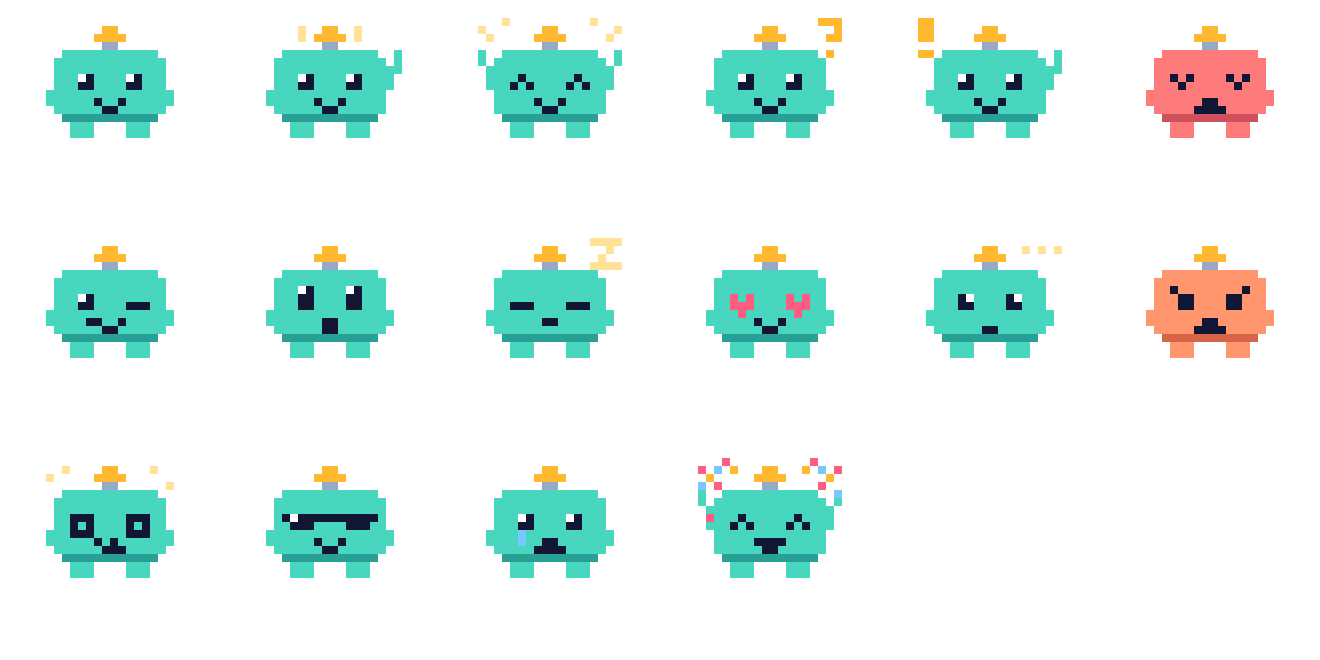
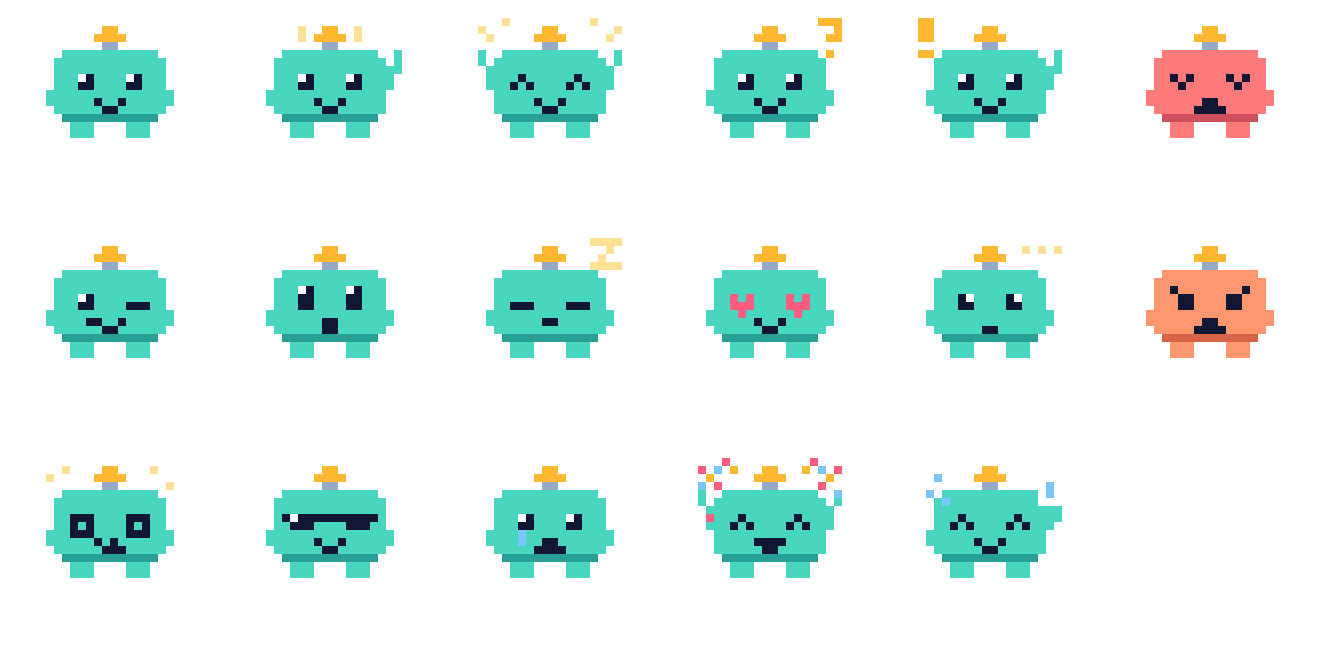
feat: Kiro (app + CLI) support; a sipping-water Pintu for the drink reminder; 1.2.30

Changed region(s): [[0.6833, 0.697, 0.8076, 0.8788]]

diff --git a/npm/python/pet.js b/npm/python/pet.js
@@ -48,7 +48,7 @@ function drawPet(pctx, mode, now, pet) {
   const eyesFor = (x, left) => {
     if (mode === "nap" || mode === "tired" || blinking) return [[x, 10], [x + 1, 10]];
     if (err) return left ? [[x, 9], [x + 1, 10], [x + 1, 9]] : [[x + 1, 9], [x, 10], [x, 9]];
-    if (pet.hover || mode === "done" || mode === "music" || mode === "party" || mode === "proud") return [[x, 10], [x + 1, 9], [x + 2, 10]];  // ^ ^
+    if (pet.hover || mode === "done" || mode === "drink" || mode === "music" || mode === "party" || mode === "proud") return [[x, 10], [x + 1, 9], [x + 2, 10]];  // ^ ^
     const e = [[x, 9], [x, 10], [x + 1, 10]]; px(x + 1, 9, PC.white);
     if (["approval", "question"].includes(mode)) e.push([x, 11]);
     if (mode === "working") { return [[x, 10], [x + 1, 10], [x, 9]]; }          // looking down at the keys
@@ -66,6 +66,12 @@ function drawPet(pctx, mode, now, pet) {
   if (has("coffee") || mode === "tired") {
     px(19, 11, PC.white, 2, 3); px(21, 12, PC.white);
     px(frame % 2 ? 20 : 19, 9, PC.steam); px(frame % 2 ? 19 : 20, 10, PC.steam);
+  }
+  if (mode === "drink") {                                                              // sipping a glass of water
+    const sip = frame % 4 === 3;
+    px(sip ? 17 : 19, sip ? 6 : 8, PC.white, 3, 1); px(sip ? 17 : 19, sip ? 7 : 9, PC.white); px(sip ? 19 : 21, sip ? 7 : 9, PC.white);
+    px(sip ? 18 : 20, sip ? 7 : 9, "#5ab8ff"); px(sip ? 17 : 19, sip ? 8 : 10, PC.white, 3, 1);
+    for (const [x, y] of [[2, 4], [1, 8], [3, 12]]) if ((frame + x) % 3) px(x, y + (frame % 2), "#5ab8ff");
   }
   if (mode === "music") { const n = frame % 2; px(17 - n, 3 - n, PC.yel); px(18 - n, 2 - n, PC.yel); px(18 - n, 1 - n, PC.yel); px(16 + n, 5, PC.cream); }
   if (mode === "nap") { const z = frame % 4; px(16, 5, PC.cream); if (z > 0) { px(17, 4, PC.cream, 2); px(18, 3, PC.cream); } if (z > 1) { px(18, 1, PC.cream, 3); px(19, 2, PC.cream); px(18, 3, PC.cream, 3); } }

diff --git a/npm/python/toast.html b/npm/python/toast.html
@@ -29,8 +29,8 @@
 <script src="pet.js"></script>
 <script>
 const $ = (id) => document.getElementById(id);
-const MODE = {done: "done", approval: "approval", question: "question", error: "error", thinking: "working", sleepy: "nap", party: "party", stuck: "question"};
-const COLOR = {done: "#3ddc97", approval: "#ff8a3d", question: "#ffb830", error: "#ff5c5c", stuck: "#ffb830"};
+const MODE = {done: "done", approval: "approval", question: "question", error: "error", thinking: "working", sleepy: "nap", party: "party", drink: "drink", stuck: "question"};
+const COLOR = {drink: "#5ab8ff", done: "#3ddc97", approval: "#ff8a3d", question: "#ffb830", error: "#ff5c5c", stuck: "#ffb830"};
 const ctx = $("pet").getContext("2d");
 const st = {look: 0, blinkAt: 0, hover: false, jumpUntil: 0, spinUntil: 0, overrideUntil: 0};
 let mode = "wave", app = null, born = 0;

diff --git a/tests/configure.test.js b/tests/configure.test.js
@@ -77,3 +77,12 @@ test("addHooks leaves no lock or temp files behind", () => {
   addHooks(file, "/x/python", "/x/pintumcp/npm/python/hook.py");
   assert.deepStrictEqual(fs.readdirSync(dir).filter((f) => f !== "settings.json"), []);
 });
+
+test("Kiro: configureMcp creates settings/mcp.json and removeMcp takes it out again", () => {
+  const { configureMcp } = require("../npm/lib/configure");
+  const file = path.join(tmp(), ".kiro", "settings", "mcp.json");
+  const tool = { name: "Kiro", configPath: file, format: "json", mcpKey: "mcpServers", claudeFormat: true };
+  configureMcp(tool, "/py", "/server.py");
+  assert.deepStrictEqual(JSON.parse(fs.readFileSync(file, "utf-8")).mcpServers.pintumcp, { command: "/py", args: ["/server.py"] });
+  assert.strictEqual(removeMcp(tool), true);
+});

diff --git a/npm/lib/detect.js b/npm/lib/detect.js
@@ -118,6 +118,18 @@ function detect() {
     });
   }
 
+  // 8. Kiro: the app and the CLI share ~/.kiro/settings/mcp.json
+  const kiroDir = path.join(HOME, ".kiro");
+  if (fs.existsSync(kiroDir)) {
+    tools.push({
+      name: "Kiro (app + CLI)",
+      configPath: path.join(kiroDir, "settings", "mcp.json"),
+      format: "json",
+      mcpKey: "mcpServers",
+      claudeFormat: true,
+    });
+  }
+
   return tools;
 }
 

diff --git a/npm/bin/pintumcp.js b/npm/bin/pintumcp.js
@@ -456,6 +456,7 @@ Supported AI Tools:
   • Claude Desktop ~/Library/Application Support/Claude/claude_desktop_config.json
   • Claude Code    ~/.claude/settings.json
   • Codex          ~/.codex/config.toml
+  • Kiro (app+CLI) ~/.kiro/settings/mcp.json
   • Antigravity    ~/Library/Application Support/Antigravity/User/settings.json
   • VS Code        ~/Library/Application Support/Code/User/settings.json
 `);

diff --git a/npm/lib/configure.js b/npm/lib/configure.js
@@ -27,6 +27,7 @@ function readJsonc(filePath) {
 }
 
 function writeJson(filePath, data) {
+  fs.mkdirSync(path.dirname(filePath), { recursive: true }); // Kiro's settings/ may not exist yet
   fs.writeFileSync(filePath, JSON.stringify(data, null, 2) + "\n", "utf-8");
 }
 

diff --git a/scripts/build_pet.py b/scripts/build_pet.py
@@ -151,6 +151,12 @@ def make():
     put(g, [(0, 1), (3, 0), (14, 0), (17, 1), (2, 3), (15, 3), (1, 7)], "R")
     put(g, [(1, 2), (16, 2), (4, 1), (13, 1)], "A"); put(g, [(0, 3), (17, 4), (2, 1), (15, 1)], "C"); f["party"] = g
 
+    # drink: happy closed eyes, a blue glass of water in the raised right hand, a splash of drops
+    g = new(); clear(g, (5, 6, 11, 12), (7, 8)); arm_up_right(g, (6, 7))
+    put(g, [(4, 8), (5, 7), (6, 8), (11, 8), (12, 7), (13, 8)], "E")
+    put(g, [(15, 2), (16, 2), (17, 2), (15, 5), (16, 5), (17, 5), (15, 3), (17, 3), (15, 4), (17, 4)], "W")   # the glass
+    put(g, [(16, 3), (16, 4)], "C"); put(g, [(2, 2), (1, 4), (3, 5)], "C"); f["drink"] = g
+
     return {k: finish(v, k) for k, v in f.items()}
 
 

diff --git a/npm/python/tray.py b/npm/python/tray.py
@@ -158,7 +158,7 @@ def housekeeping() -> None:
                                volume=config.get("volume", 80), icon=faces / "sleepy.png")
         if config.get("drink_reminder", True) and status.drink_nudge_due(config.get("drink_minutes", 45)):
             notifier.alert("Drink break!", "Have some water. Pintu is thirsty too.",
-                           volume=config.get("volume", 80), icon=faces / "thinking.png")
+                           volume=config.get("volume", 80), icon=faces / "drink.png")
         check_update_async()
     except Exception:
         pass  # never let a nudge break the tray

diff --git a/scripts/make_assets.py b/scripts/make_assets.py
@@ -50,7 +50,7 @@ icon.save(ROOT / "assets/pintumcp-icon.png")
 
 (ROOT / "assets/transparent/icons").mkdir(parents=True, exist_ok=True)
 (ROOT / "assets/transparent/previews").mkdir(exist_ok=True)
-EVENTS = ("done", "question", "approval", "error", "thinking", "sleepy", "party")
+EVENTS = ("done", "question", "approval", "error", "thinking", "sleepy", "party", "drink")
 MOODS = [n for n in pet["frames"] if n not in EVENTS]
 for name in MOODS:  # the pet alone, transparent background
     sprite(name, 24).save(ROOT / f"assets/transparent/icons/pintu-{name}.png")

diff --git a/npm/README.md b/npm/README.md
@@ -286,6 +286,7 @@ Every notification **always plays sound**. You will hear it.
 | **Claude Desktop** | Auto-detected | `~/Library/Application Support/Claude/claude_desktop_config.json` |
 | **Claude Code** | Auto-detected | `~/.claude/settings.json` |
 | **Codex** (OpenAI) | Auto-detected | `~/.codex/config.toml` |
+| **Kiro** (app + CLI) | Auto-detected | `~/.kiro/settings/mcp.json` |
 | **Antigravity** | Auto-detected | `~/Library/Application Support/Antigravity/User/settings.json` |
 | **VS Code** | Auto-detected | `~/Library/Application Support/Code/User/settings.json` |
 
